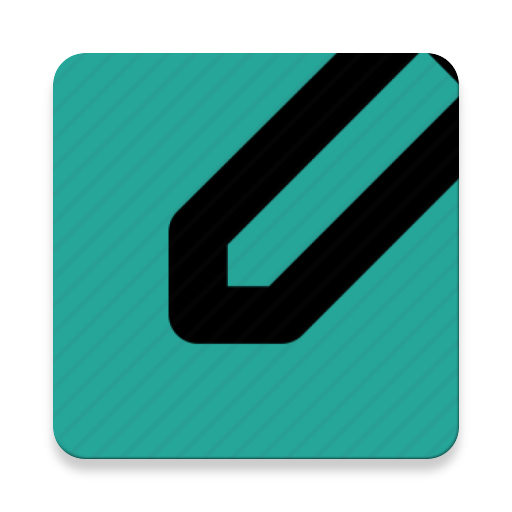
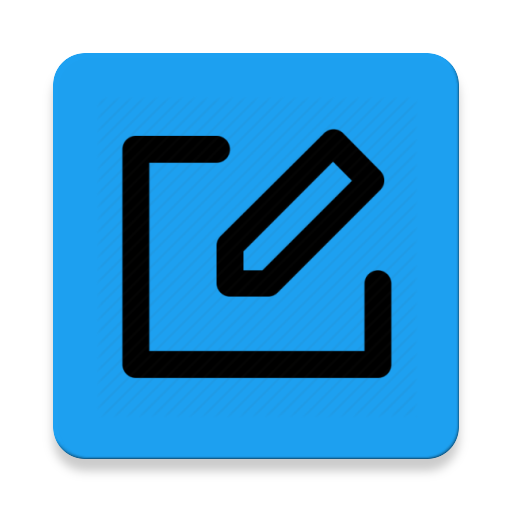
Changed user interface : included images of the buttons
Included timestamp of the tweet

Included username and name in a tweet

diff --git a/app/src/main/java/com/codepath/apps/restclienttemplate/TweetAdapter.java b/app/src/main/java/com/codepath/apps/restclienttemplate/TweetAdapter.java
@@ -3,6 +3,7 @@ package com.codepath.apps.restclienttemplate;
 import android.content.Context;
 import android.content.Intent;
 import android.support.v7.widget.RecyclerView;
+import android.text.format.DateUtils;
 import android.view.LayoutInflater;
 import android.view.View;
 import android.view.ViewGroup;
@@ -15,7 +16,10 @@ import com.codepath.apps.restclienttemplate.models.Tweet;
 
 import org.parceler.Parcels;
 
+import java.text.ParseException;
+import java.text.SimpleDateFormat;
 import java.util.List;
+import java.util.Locale;
 
 
 public class TweetAdapter extends RecyclerView.Adapter<TweetAdapter.ViewHolder>{
@@ -25,6 +29,7 @@ public class TweetAdapter extends RecyclerView.Adapter<TweetAdapter.ViewHolder>{
         public TweetAdapter(List<Tweet> tweets){
             this.tweets = tweets;
         }
+
 
         public ViewHolder onCreateViewHolder(ViewGroup parent, int viewType){
             context = parent.getContext();
@@ -36,14 +41,35 @@ public class TweetAdapter extends RecyclerView.Adapter<TweetAdapter.ViewHolder>{
 
          public void onBindViewHolder(ViewHolder holder, int position){
             Tweet tweet = tweets.get(position);
-            holder.tvUserName.setText(tweet.user.name);
+            holder.tvUserName.setText(tweet.user.name + " @"+tweet.user.username);
             holder.tvUserTweet.setText(tweet.body);
+            holder.time.setText(getRelativeTimeAgo(tweet.createdAt));
 
             Glide.with(context)
                     .load(tweet.user.profileImageUrl)
                     .into(holder.ivProfileImage);
 
+
         }
+
+
+    // getRelativeTimeAgo("Mon Apr 01 21:16:23 +0000 2014");
+    public String getRelativeTimeAgo(String rawJsonDate) {
+        String twitterFormat = "EEE MMM dd HH:mm:ss ZZZZZ yyyy";
+        SimpleDateFormat sf = new SimpleDateFormat(twitterFormat, Locale.ENGLISH);
+        sf.setLenient(true);
+
+        String relativeDate = "";
+        try {
+            long dateMillis = sf.parse(rawJsonDate).getTime();
+            relativeDate = DateUtils.getRelativeTimeSpanString(dateMillis,
+                    System.currentTimeMillis(), DateUtils.SECOND_IN_MILLIS).toString();
+        } catch (ParseException e) {
+            e.printStackTrace();
+        }
+
+        return relativeDate;
+    }
 
         public int getItemCount(){
             return tweets.size();
@@ -64,6 +90,7 @@ public class TweetAdapter extends RecyclerView.Adapter<TweetAdapter.ViewHolder>{
             public ImageView ivProfileImage;
             public TextView tvUserName;
             public TextView tvUserTweet;
+            public TextView time;
             ImageButton btnReply;
 
             public ViewHolder(View itemView) {
@@ -72,6 +99,7 @@ public class TweetAdapter extends RecyclerView.Adapter<TweetAdapter.ViewHolder>{
                 ivProfileImage = (ImageView) itemView.findViewById(R.id.ivProfileImage);
                 tvUserName = (TextView) itemView.findViewById(R.id.tvUserName);
                 tvUserTweet = (TextView) itemView.findViewById(R.id.tvUserTweet);
+                time = (TextView) itemView.findViewById(R.id.time);
                 btnReply = (ImageButton) itemView.findViewById(R.id.btnReply);
 
                 btnReply.setOnClickListener(new View.OnClickListener() {

diff --git a/app/src/main/java/com/codepath/apps/restclienttemplate/ComposeActivity.java b/app/src/main/java/com/codepath/apps/restclienttemplate/ComposeActivity.java
@@ -10,8 +10,10 @@ import android.widget.EditText;
 import android.widget.TextView;
 
 import com.codepath.apps.restclienttemplate.models.Tweet;
-import com.loopj.android.http.AsyncHttpResponseHandler;
+import com.loopj.android.http.JsonHttpResponseHandler;
 
+import org.json.JSONArray;
+import org.json.JSONObject;
 import org.parceler.Parcels;
 
 import cz.msebera.android.httpclient.Header;
@@ -34,8 +36,6 @@ public class ComposeActivity extends AppCompatActivity {
         client = TwitterApp.getRestClient(this);
 
         textChange();
-
-
     }
 
     public void textViewParam (int count){
@@ -63,9 +63,11 @@ public class ComposeActivity extends AppCompatActivity {
     public void onClickTweet(View view){
         EditText et = (EditText) findViewById(R.id.etWords);
         String message = et.getText().toString();
-        client.sendTweet(message, new AsyncHttpResponseHandler() {
+        client.sendTweet(message, new JsonHttpResponseHandler() {
+
             @Override
-            public void onSuccess(int statusCode, Header[] headers, byte[] responseBody) {
+            public void onSuccess(int statusCode, Header[] headers, JSONObject response) {
+                super.onSuccess(statusCode, headers, response);
                 Intent i = new Intent();
                 Tweet tweet = new Tweet();
                 i.putExtra("tweet", Parcels.wrap(tweet)); // do i need to wrap it?
@@ -74,7 +76,40 @@ public class ComposeActivity extends AppCompatActivity {
             }
 
             @Override
-            public void onFailure(int statusCode, Header[] headers, byte[] responseBody, Throwable error) {
+            public void onSuccess(int statusCode, Header[] headers, JSONArray response) {
+                super.onSuccess(statusCode, headers, response);
+                Intent i = new Intent();
+                Tweet tweet = new Tweet();
+                i.putExtra("tweet", Parcels.wrap(tweet)); // do i need to wrap it?
+                setResult(RESULT_OK,i);
+                finish();
+            }
+
+            @Override
+            public void onFailure(int statusCode, Header[] headers, Throwable throwable, JSONObject errorResponse) {
+                super.onFailure(statusCode, headers, throwable, errorResponse);
+                Intent i = new Intent();
+                Tweet tweet = new Tweet();
+                i.putExtra("tweet", Parcels.wrap(tweet)); // do i need to wrap it?
+                setResult(RESULT_OK,i);
+                finish();
+            }
+
+            @Override
+            public void onFailure(int statusCode, Header[] headers, Throwable throwable, JSONArray errorResponse) {
+                super.onFailure(statusCode, headers, throwable, errorResponse);
+                finish();
+            }
+
+            @Override
+            public void onFailure(int statusCode, Header[] headers, String responseString, Throwable throwable) {
+                super.onFailure(statusCode, headers, responseString, throwable);
+                finish();
+            }
+
+            @Override
+            public void onSuccess(int statusCode, Header[] headers, String responseString) {
+                super.onSuccess(statusCode, headers, responseString);
                 finish();
             }
         });

diff --git a/app/src/main/java/ParseRelativeDate.java b/app/src/main/java/ParseRelativeDate.java
@@ -1,0 +1,25 @@
+import android.text.format.DateUtils;
+
+import java.text.ParseException;
+import java.text.SimpleDateFormat;
+import java.util.Locale;
+
+public class ParseRelativeDate {
+    // getRelativeTimeAgo("Mon Apr 01 21:16:23 +0000 2014");
+    public String getRelativeTimeAgo(String rawJsonDate) {
+        String twitterFormat = "EEE MMM dd HH:mm:ss ZZZZZ yyyy";
+        SimpleDateFormat sf = new SimpleDateFormat(twitterFormat, Locale.ENGLISH);
+        sf.setLenient(true);
+
+        String relativeDate = "";
+        try {
+            long dateMillis = sf.parse(rawJsonDate).getTime();
+            relativeDate = DateUtils.getRelativeTimeSpanString(dateMillis,
+                    System.currentTimeMillis(), DateUtils.SECOND_IN_MILLIS).toString();
+        } catch (ParseException e) {
+            e.printStackTrace();
+        }
+
+        return relativeDate;
+    }
+}

diff --git a/app/src/main/java/com/codepath/apps/restclienttemplate/TwitterClient.java b/app/src/main/java/com/codepath/apps/restclienttemplate/TwitterClient.java
@@ -14,8 +14,8 @@ public class TwitterClient extends OAuthBaseClient {
 
 	public static final BaseApi REST_API_INSTANCE = TwitterApi.instance();
 	public static final String REST_URL = "https://api.twitter.com/1.1";
-	public static final String REST_CONSUMER_KEY ="4KxocRp2Wh8RZ9cy1KJEjxGVy";
-	public static final String REST_CONSUMER_SECRET = "EeyJ4vEZN3al7c0C13bMwAY3pGc2RASrampYtvJvnX1kLDHKJf";
+	public static final String REST_CONSUMER_KEY ="TEkkex4tqDbKHf0vWafhdTNdG";
+	public static final String REST_CONSUMER_SECRET = "zcDJIfZPTT5Ivo5NqUuQ735ld3zuQVsugnP9Nsc38jx2NKYRVU";
 
 	public static final String FALLBACK_URL = "https://codepath.github.io/android-rest-client-template/success.html";
 

diff --git a/app/src/main/java/com/codepath/apps/restclienttemplate/TimelineActivity.java b/app/src/main/java/com/codepath/apps/restclienttemplate/TimelineActivity.java
@@ -168,7 +168,7 @@ public class TimelineActivity extends AppCompatActivity {
 
     @Override
     protected void onActivityResult(int requestCode, int resultCode, Intent data) {
-        if (resultCode == RESULT_OK && resultCode == REQUEST_CODE) {
+        if (resultCode == RESULT_OK && requestCode == REQUEST_CODE) {
             Tweet tweet = (Tweet) data.getSerializableExtra("tweet");
             tweets.add(0, tweet);
             tweetAdapter.notifyItemInserted(0);
